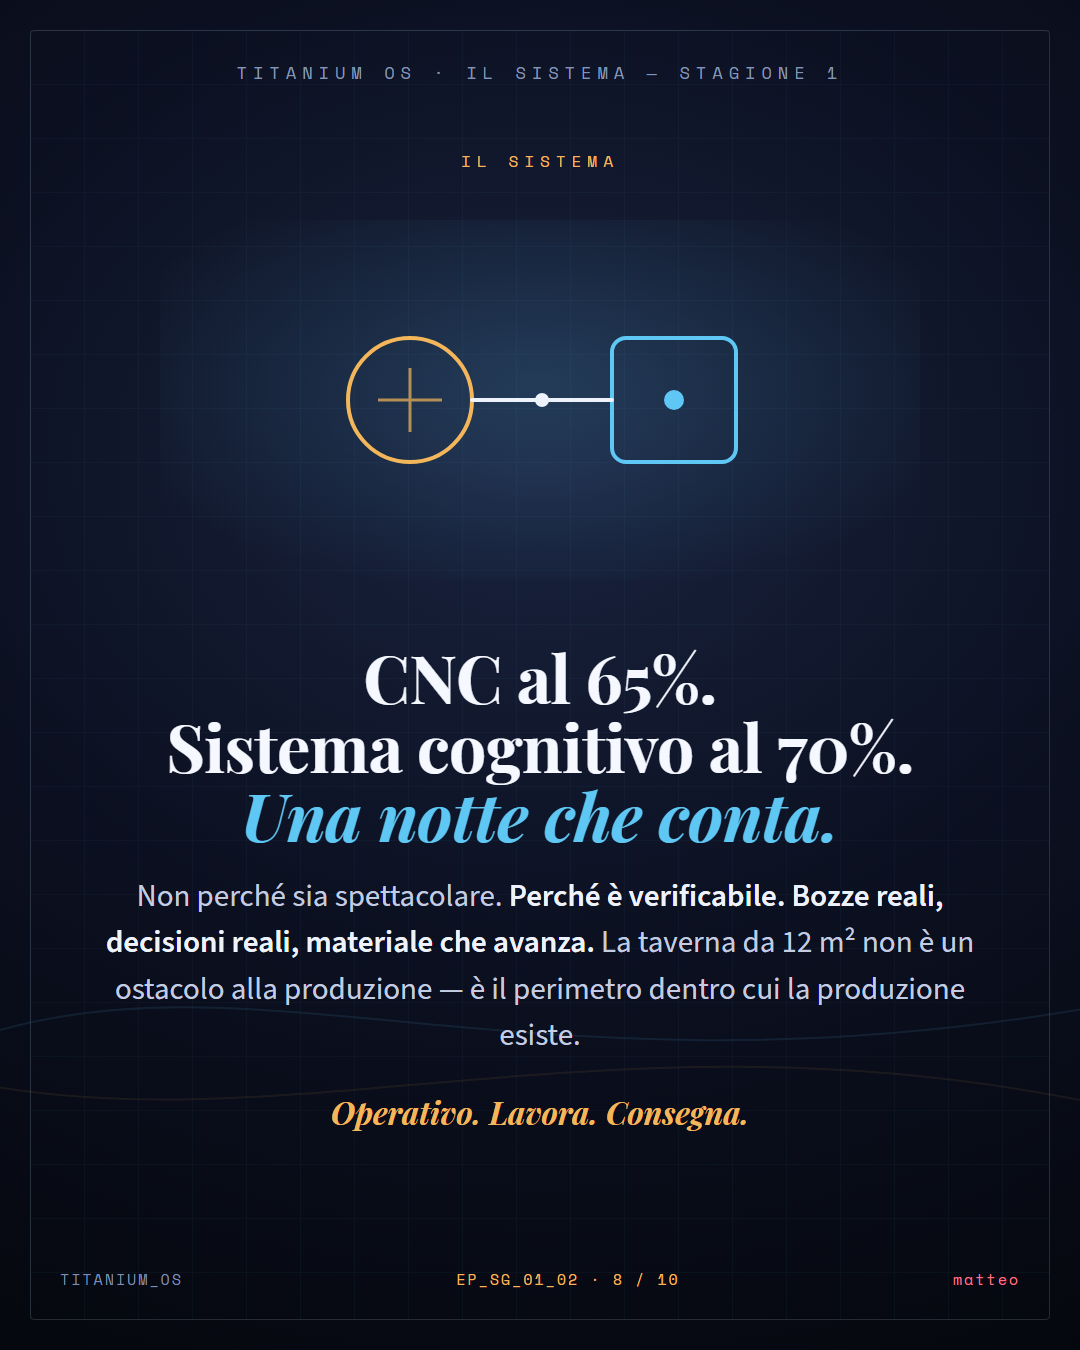
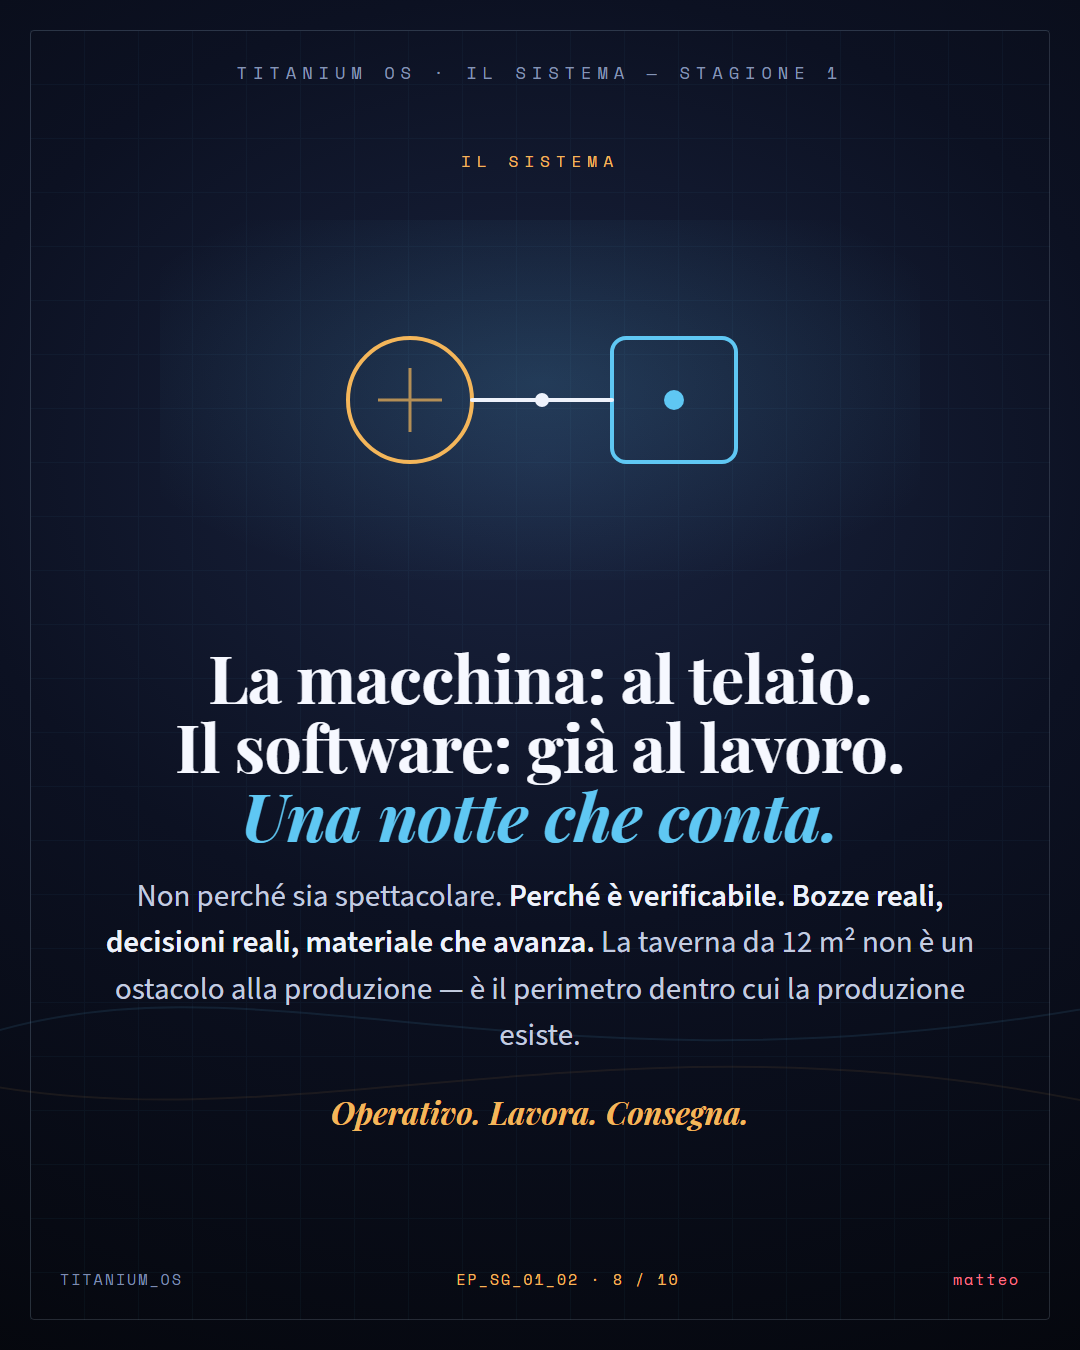
fix(#59): EP_SG_01_02 slide 8 - via le percentuali STATE (metriche interne, non stato fisico)

Changed region(s): [[0.1528, 0.4667, 0.8556, 0.5911]]

diff --git a/CONTENT_ENGINE/DATABASE/MONDO/POSTER/CAROSELLI/EP_SG_01_02/carosello.html b/CONTENT_ENGINE/DATABASE/MONDO/POSTER/CAROSELLI/EP_SG_01_02/carosello.html
@@ -132,7 +132,7 @@ body { display:flex; flex-direction:column; align-items:center; gap:40px; paddin
   <div class="kicker">IL SISTEMA</div>
   <div class="scene"><svg width="760" height="360" viewBox="0 0 760 360" fill="none"><defs><radialGradient id="glow" cx="50%" cy="45%" r="60%"><stop offset="0%" stop-color="#5fc7f3" stop-opacity="0.16"/><stop offset="100%" stop-color="#5fc7f3" stop-opacity="0"/></radialGradient><radialGradient id="glowg" cx="50%" cy="45%" r="60%"><stop offset="0%" stop-color="#f4b65a" stop-opacity="0.16"/><stop offset="100%" stop-color="#f4b65a" stop-opacity="0"/></radialGradient></defs><rect width="760" height="360" fill="url(#glow)"/><circle cx="250" cy="180" r="62" stroke="#f4b65a" stroke-width="4"/><path d="M250 148 v64 M218 180 h64" stroke="#f4b65a" stroke-width="3" stroke-opacity="0.7"/><rect x="452" y="118" width="124" height="124" rx="14" stroke="#5fc7f3" stroke-width="4"/><circle cx="514" cy="180" r="10" fill="#5fc7f3"/><path d="M312 180 H452" stroke="#eef2fb" stroke-width="4" stroke-linecap="round"/><circle cx="382" cy="180" r="7" fill="#eef2fb"/></svg></div>
   <div class="body2">
-    <div class="lead">CNC al 65%.<br>Sistema cognitivo al 70%.<br><span class='cyan'>Una notte che conta.</span></div>
+    <div class="lead">La macchina: al telaio.<br>Il software: già al lavoro.<br><span class='cyan'>Una notte che conta.</span></div>
     <div class="intro">Non perché sia spettacolare. <span class='soft'>Perché è verificabile. Bozze reali, decisioni reali, materiale che avanza.</span> La taverna da 12 m² non è un ostacolo alla produzione — è il perimetro dentro cui la produzione esiste.</div><div class="seal">Operativo. Lavora. Consegna.</div>
   </div>
   <div class="footer"><span>TITANIUM_OS</span><span class="dot">EP_SG_01_02 · 8 / 10</span><span class="matteo">matteo</span></div>
